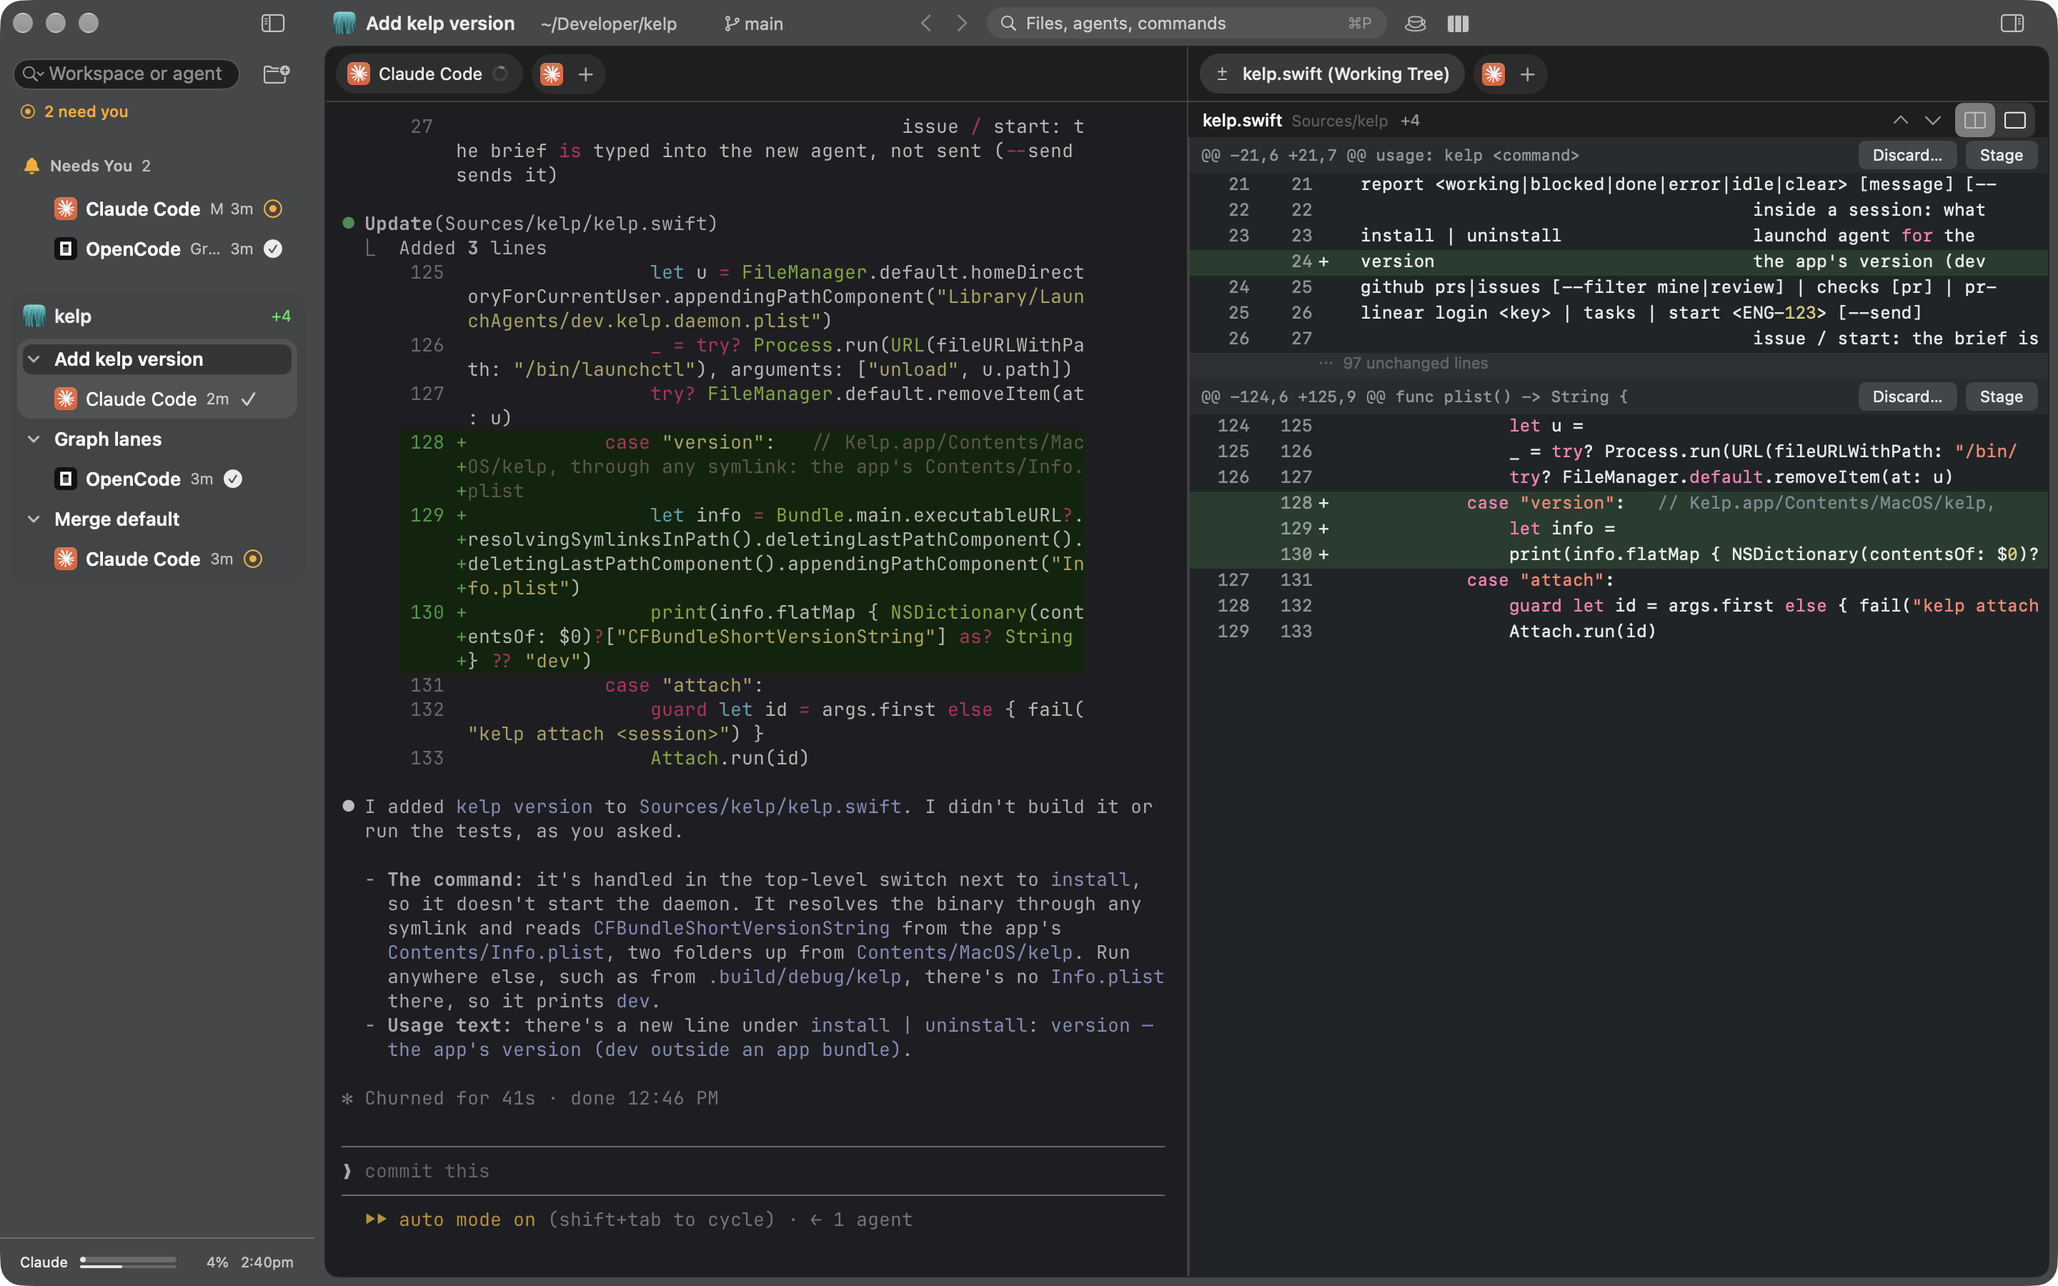
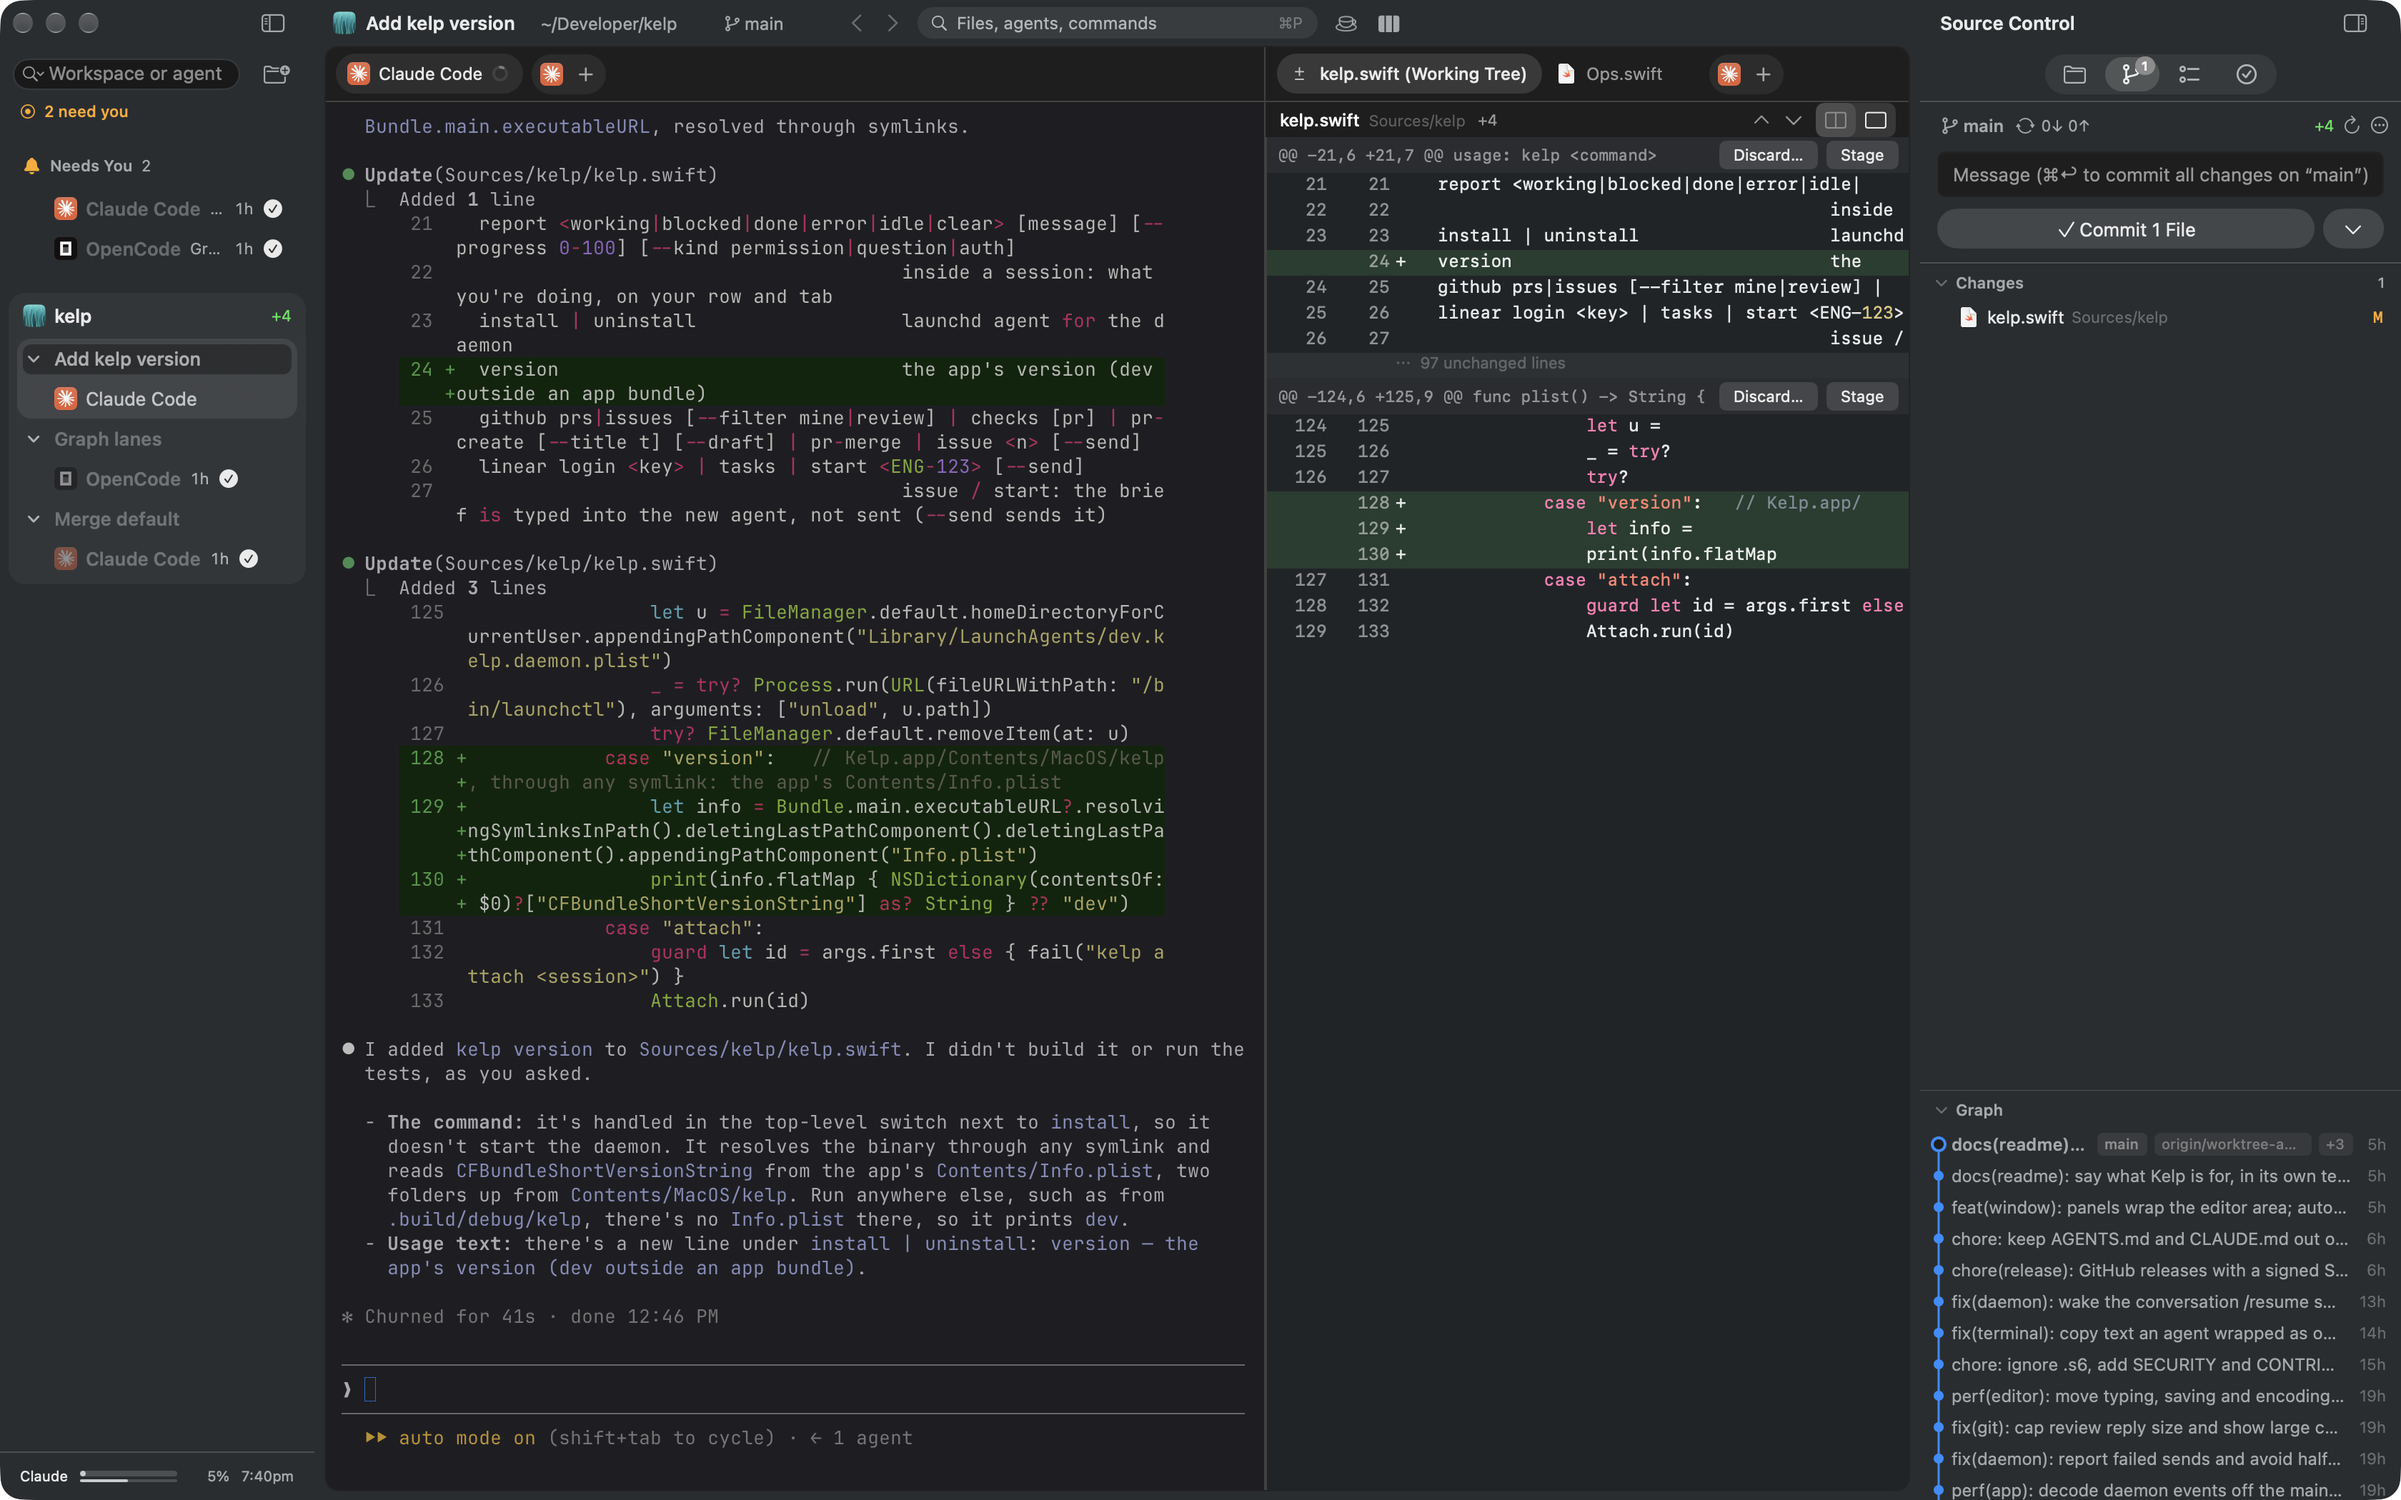
docs(readme): show Source Control in the screenshot, say what's built in
The first screenshot now has the right panel open: the change, its diff and
the commit box side by side. The README names the bundled agents, git and
forge features, the commands agents use to drive the app, .kelp.yaml's
run/test commands and trust, and where extensions come from.

Changed region(s): [[0.0, 0.0, 1.0, 1.0], [0.5938, 0.4667, 0.6562, 0.4978], [0.4062, 0.9333, 0.4375, 0.9644]]

diff --git a/README.md b/README.md
@@ -3,22 +3,23 @@
 A native macOS IDE between a classic editor like VS Code and an agent app like Claude Desktop: agents work side by
 side, and the code they touch is one tab away to read, review and edit.
 
-![An agent's finished change next to its diff, with every workspace's agents in the sidebar](docs/screenshots/agent-and-diff.png)
+![An agent's finished change next to its diff, Source Control on the right, every workspace's agents in the sidebar](docs/screenshots/agent-and-diff.png)
 
 - **Code at hand.** Editor with language servers, file tree, diffs, browser; any tab in any split.
-- **Agents first.** Any CLI agent, live status, review as a diff; agents keep working after you quit the app.
+- **Agents first.** Claude Code, Codex, OpenCode, Gemini CLI and 15 more out of the box, or any CLI. Live status,
+  review as a diff; agents keep working after you quit the app.
+- **Git built in.** Source Control as in VS Code: stage or discard a hunk, commit, push, branch graph. Pull requests
+  and CI from GitHub and GitLab; Linear and Jira issues.
 - **Extensible.** Panels, commands and themes come from extensions; a JSON file is enough.
 - **Native.** Swift + AppKit, terminal on libghostty. No Electron, no cloud, no telemetry.
 
 ![An agent waiting on a question; the sidebar counts who needs you](docs/screenshots/agent-asks.png)
 
-Requires macOS 14+.
-
 ## Install
 
-Download `Kelp.dmg` from [Releases](https://github.com/nikiomori/kelp/releases/latest) and drag Kelp to Applications;
-it updates itself (Kelp › Check for Updates…). Kelp's terminals have `kelp` on their PATH; for other terminals:
-`ln -s /Applications/Kelp.app/Contents/MacOS/kelp /usr/local/bin/kelp`.
+Requires macOS 14+. Download `Kelp.dmg` from [Releases](https://github.com/nikiomori/kelp/releases/latest) and drag
+Kelp to Applications; it updates itself (Kelp › Check for Updates…). Kelp's terminals have `kelp` on their PATH; for
+other terminals: `ln -s /Applications/Kelp.app/Contents/MacOS/kelp /usr/local/bin/kelp`.
 
 ## Build and run
 
@@ -35,14 +36,21 @@ For quick iteration: `swift build && .build/debug/KelpApp` (the app starts `kelp
 
 ## CLI
 
+Everything the window does, `kelp` does too, so agents can drive Kelp as well (`kelp help` lists it all).
+
 ```sh
 kelp status
 kelp session new --agent claude                                # in the workspace of the current folder
+kelp session new --cmd "npm test" --split down --wait          # a tab beside yours; exits with the command's code
+kelp open Sources/App.swift:42 --split right                   # a tab in the app
 kelp worktree create feat/login | list | current | note "half done"
 kelp terminal list | read <id> | send <id> "run the tests" | context <id>
 kelp diff | commit "msg" | merge | push
+kelp ext search | install <id>                                 # the extension library
 kelp install                                                   # run the daemon as a LaunchAgent
 ```
+
+Claude Code sessions get Kelp's skills for this (Settings › Agents): ask the agent for a panel, a setting or a theme.
 
 ## Per-repo config: `.kelp.yaml`
 
@@ -50,11 +58,20 @@ kelp install                                                   # run the daemon 
 setup: npm install              # runs in every new worktree
 shared: node_modules            # symlinked from the main checkout instead of reinstalling
 tabs: claude, shell             # sessions opened in each new worktree
+run: npm run dev                # Run menu: run / test / lint / build (⌘R, ⌘U); script.<name> for any other
+test: npm test
 issueCommand: "Fix {title}: {body}"
 recipe.commit: "Write a conventional commit for: {stagedPatch}"
 ```
 
+Its commands run only after you trust the project in Kelp, and ask again when the file changes.
 `.worktreeinclude` lists gitignored files (globs) copied into new worktrees, e.g. `.env*`.
+
+## Extensions
+
+An extension is a folder with an `extension.json` in `~/.kelp/extensions`: a panel that shows what a command prints,
+commands, settings, themes, agents. Format: [docs/extensions.md](docs/extensions.md). Ready ones are in the
+[library](https://github.com/nikiomori/kelp-extensions) (Settings › Extensions › Library, or `kelp ext search`).
 
 ## Architecture
 
